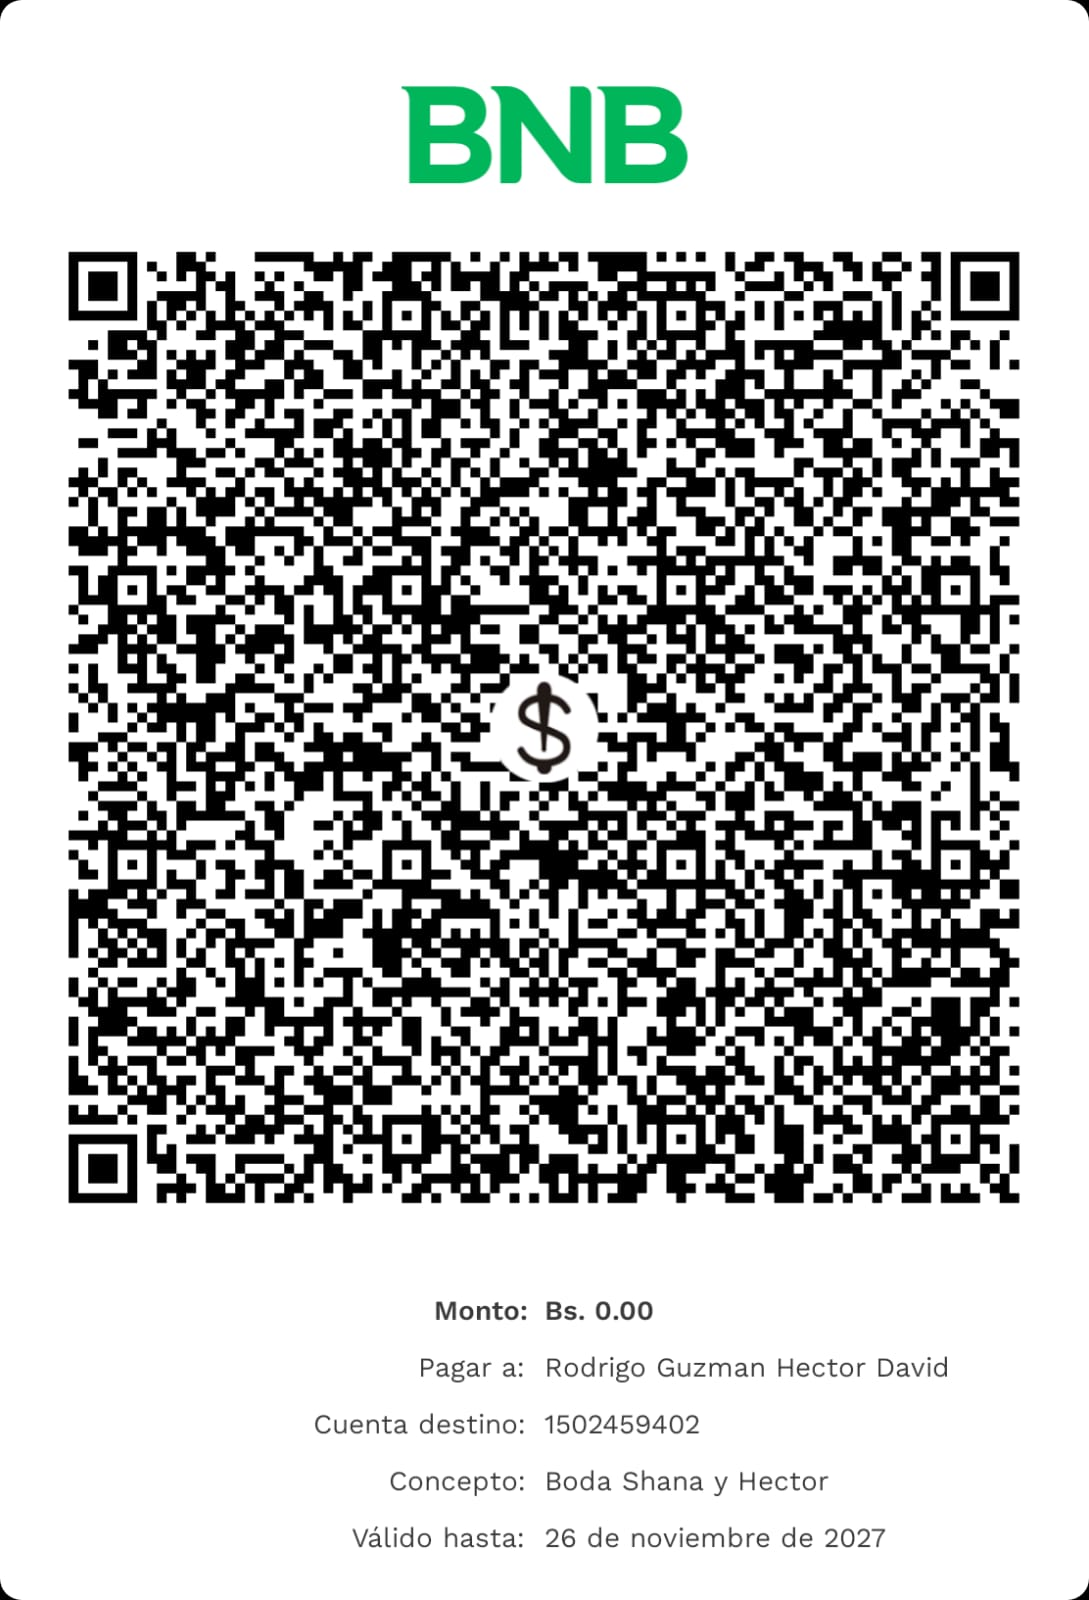
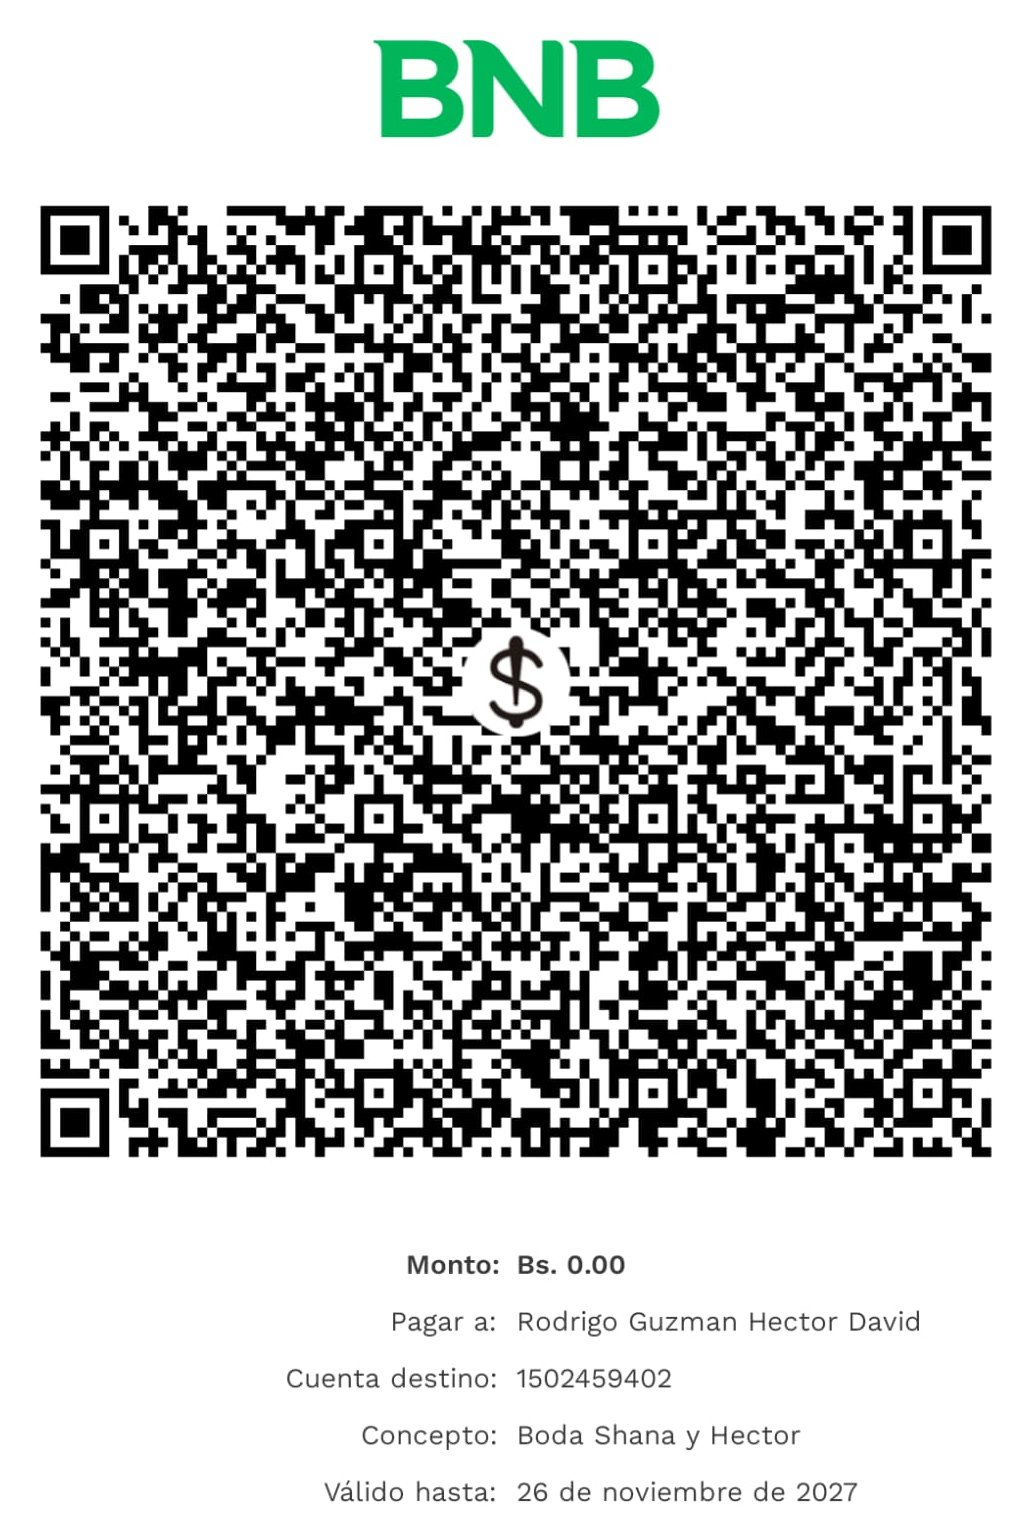
Enlaces personales: arregla carga lenta, fotos sin pedir nombre y QR en rectángulo
- Bug: si Apps Script tardaba y el invitado ya había abierto el sobre,
  modoFamilia escribía en la portada (ya eliminada), fallaba y el enlace
  mostraba "No pudimos cargar su invitación". Ahora solo toca la portada
  si sigue en pantalla, y la consulta se reintenta una vez si falla la red.
- Fotos en todos los enlaces (mostrarFotos en config.js en vez de fecha).
- En enlaces personales las fotos quedan a nombre de la invitación del
  Excel y no se pide nombre; en el enlace general sigue siendo opcional.
- QR: recortado al contenido (sin las esquinas negras de la captura),
  en un rectángulo blanco con filete dorado; clase nueva para que un CSS
  viejo en caché no lo aplaste. Verificado que el QR se lee igual.
- ?v=3 en CSS y JS para que los teléfonos no mezclen versiones.

diff --git a/index.html b/index.html
@@ -15,7 +15,7 @@
 <link rel="preconnect" href="https://fonts.googleapis.com">
 <link rel="preconnect" href="https://fonts.gstatic.com" crossorigin>
 <link href="https://fonts.googleapis.com/css2?family=Cinzel:wght@400;500;600;700&family=Cormorant+Garamond:ital,wght@0,400;0,500;0,600;1,400;1,500&family=Great+Vibes&display=swap" rel="stylesheet">
-<link rel="stylesheet" href="css/estilo.css">
+<link rel="stylesheet" href="css/estilo.css?v=3">
 </head>
 <body class="cerrado">
 
@@ -244,8 +244,8 @@
         <h2 class="cinzel etiqueta" id="t-regalo">Lluvia de sobres</h2>
         <p class="script regalo-titulo">Su presencia es nuestro mejor regalo</p>
         <p class="regalo-texto">Si además desean tener un detalle con nosotros, con todo cariño les pedimos que, en lugar de un obsequio físico, nos acompañen con una lluvia de sobres a través de este código. Será una bendición para dar los primeros pasos de nuestro hogar.</p>
-        <img class="qr" src="img/qr-regalo.jpeg" alt="Código QR del BNB para la lluvia de sobres" width="1089" height="1600">
-        <a class="boton-linea" href="img/qr-regalo.jpeg" download="QR-regalo-Shana-y-Hector.jpg">Descargar el código</a>
+        <div class="qr-banco"><img src="img/qr-regalo.jpeg?v=2" alt="Código QR del BNB para la lluvia de sobres" width="1032" height="1534"></div>
+        <a class="boton-linea" href="img/qr-regalo.jpeg?v=2" download="QR-regalo-Shana-y-Hector.jpg">Descargar el código</a>
         <p class="nota">Guárdelo y escanéelo desde la app de su banco.</p>
       </div>
     </section>
@@ -299,12 +299,16 @@
       </div>
     </section>
 
-    <!-- Fotos de los invitados (aparece desde config.fotosDesde, o con ?fotos en la URL) -->
+    <!-- Fotos de los invitados (config.mostrarFotos; con ?fotos en la URL va directo aquí) -->
     <section class="seccion fotos rv" id="fotos" aria-labelledby="t-fotos" hidden>
       <h2 class="script" id="t-fotos">Comparte sus fotos</h2>
       <p class="frase-corta">Ustedes verán momentos que nosotros no alcanzaremos a ver. Compártanlos y guardémoslos juntos.</p>
       <form id="fotos-form" class="rsvp-form" novalidate>
-        <div class="campo">
+        <div class="rsvp-familia" id="fotos-familia" hidden>
+          <span class="cinzel etiqueta">Fotos de</span>
+          <span class="rsvp-nombre" id="fotos-nombre"></span>
+        </div>
+        <div class="campo" id="campo-autor">
           <label for="f-autor">Su nombre <span>(opcional)</span></label>
           <input id="f-autor" name="autor" autocomplete="name" maxlength="80">
         </div>
@@ -333,7 +337,8 @@
   </div>
 </main>
 
-<script src="js/config.js"></script>
-<script src="js/app.js"></script>
+<!-- ?v=: al cambiar estos archivos, suban el número para que los teléfonos no usen la copia vieja -->
+<script src="js/config.js?v=3"></script>
+<script src="js/app.js?v=3"></script>
 </body>
 </html>

diff --git a/js/app.js b/js/app.js
@@ -244,9 +244,16 @@
     $("#campo-nombre").hidden = true;
     $("#ayuda-cupos").textContent = "de " + lugares(cupos) + " reservados para ustedes";
     fijarCantidad(cupos);
-    // Personalización de la portada y del saludo
-    $("#portada-familia").textContent = d.invitacion;
-    $("#portada-para").hidden = false;
+    // Personalización de la portada (si el sobre sigue en pantalla: si el invitado
+    // ya lo abrió, la portada fue eliminada y no hay que tocarla) y del saludo
+    if ($("#portada-familia")) {
+      $("#portada-familia").textContent = d.invitacion;
+      $("#portada-para").hidden = false;
+    }
+    // Fotos: a nombre de la invitación, sin pedir el nombre
+    $("#fotos-nombre").textContent = d.invitacion;
+    $("#fotos-familia").hidden = false;
+    $("#campo-autor").hidden = true;
     $("#reservado-familia").textContent = d.invitacion;
     $("#reservado-cupos").textContent = lugares(cupos);
     $("#reservado").hidden = false;
@@ -289,7 +296,8 @@
       ? { invitacion: "Familia de prueba", cupos: 4, estado: "Confirmado", asistentes: 3 }
       : { invitacion: "Familia de prueba", cupos: 4, estado: "Pendiente" });
   } else if (ID && C.appsScriptUrl) {
-    consultar(ID).then(function (d) {
+    // Si la primera consulta falla (red lenta o Apps Script "despertando"), se reintenta una vez.
+    consultar(ID).catch(function () { return consultar(ID); }).then(function (d) {
       if (d && d.ok) modoFamilia(d);
       else if (C.permitirSinEnlace === false) soloConEnlace();
       else modoGeneral("No encontramos su enlace personal. Pueden confirmar escribiendo su nombre.");
@@ -348,8 +356,7 @@
 
   /* ---------- Fotos de los invitados ---------- */
   var VER_FOTOS = params.has("fotos");
-  var fotosDesde = C.fotosDesde ? new Date(C.fotosDesde).getTime() : Infinity;
-  if (VER_FOTOS || Date.now() >= fotosDesde) iniciarFotos();
+  if (VER_FOTOS || C.mostrarFotos !== false) iniciarFotos();
 
   function iniciarFotos() {
     var MAX_LADO = 2560;            // px del lado mayor tras achicar
@@ -481,7 +488,8 @@
       }
       subiendo = true;
       actualizar();
-      var autor = $("#f-autor").value.trim();
+      // Enlace personal: el nombre viene del Excel. Enlace general: el que escriban (opcional).
+      var autor = invitacion ? invitacion.invitacion : $("#f-autor").value.trim();
       var bien = 0, porConexion = false;
       // Una por una: así el progreso es claro y una foto fallida no frena a las demás.
       for (var i = 0; i < tanda.length; i++) {

diff --git a/css/estilo.css b/css/estilo.css
@@ -289,7 +289,13 @@ h2.script { margin: 0; font-size: 50px; line-height: 1.1; }
 .regalo .tarjeta { margin-top: 30px; padding-top: 56px; }
 .regalo-titulo { margin: 10px 0 0; font-size: 36px; line-height: 1.15; }
 .regalo-texto { margin: 14px 0 0; font-size: 18px; line-height: 1.5; font-style: italic; }
-.qr { width: 230px; height: auto; margin: 20px auto 16px; padding: 6px; background: #FFFFFF; border: 1px solid var(--oro); border-radius: 12px; }
+/* Rectángulo blanco con filete dorado, del tamaño justo de la tarjeta del banco */
+.qr-banco {
+  width: 250px; max-width: 100%; margin: 22px auto 18px; padding: 10px; background: #FFFFFF;
+  border: 1px solid var(--oro); border-radius: 4px;
+  box-shadow: 0 0 0 4px rgba(6, 12, 30, .55), 0 0 0 5px rgba(217, 184, 104, .45), 0 8px 22px rgba(0, 0, 0, .35);
+}
+.qr-banco img { width: 100%; height: auto; }
 
 /* Confirmación */
 .rsvp-cargando { margin-top: 18px; font-style: italic; color: var(--tenue); }

diff --git a/js/config.js b/js/config.js
@@ -16,9 +16,10 @@ window.BODA = {
   permitirSinEnlace: true,
   cuposSinEnlace: 6,
 
-  // Fotos de los invitados: la sección "Comparte sus fotos" aparece desde esta
-  // fecha. Para verla antes (o para el QR de las mesas) agreguen ?fotos a la URL.
-  fotosDesde: "2027-01-02T00:00:00-04:00",
+  // Fotos de los invitados: true muestra "Comparte sus fotos" en todos los enlaces
+  // (personales y generales). Con ?fotos en la URL se salta el sobre y va directo
+  // a las fotos (para el QR de las mesas).
+  mostrarFotos: true,
 
   // Canción de fondo: sube el archivo a la carpeta "musica" con este nombre.
   musica: "musica/cancion.mp3",

diff --git a/README.md b/README.md
@@ -34,7 +34,14 @@ No hay que cambiarles el nombre.
 
 ## Fotos de los invitados
 
-- La sección aparece sola desde la fecha `fotosDesde` de `js/config.js`.
-- Con `?fotos` en la URL se ve antes y salta el sobre: sirve para probarla y para el QR de las mesas
+- La sección aparece en todos los enlaces (`mostrarFotos: true` en `js/config.js`).
+- En los enlaces personales (`?id=...`) no se pide nombre: las fotos quedan a nombre de la invitación
+  del Excel. En el enlace general el nombre es opcional.
+- Con `?fotos` en la URL se salta el sobre y va directo a las fotos: sirve para el QR de las mesas
   (`https://hector99-rod.github.io/invitation/?fotos`).
+
+## Caché
+
+GitHub Pages deja que los teléfonos guarden CSS y JS por 10 minutos. Por eso `index.html` los pide con
+`?v=3`: al cambiar `css/estilo.css` o `js/*.js`, suban ese número para que nadie vea una mezcla vieja.
 - Cada foto se achica en el teléfono (máx. 2560 px, sin datos de GPS) antes de subirla.
